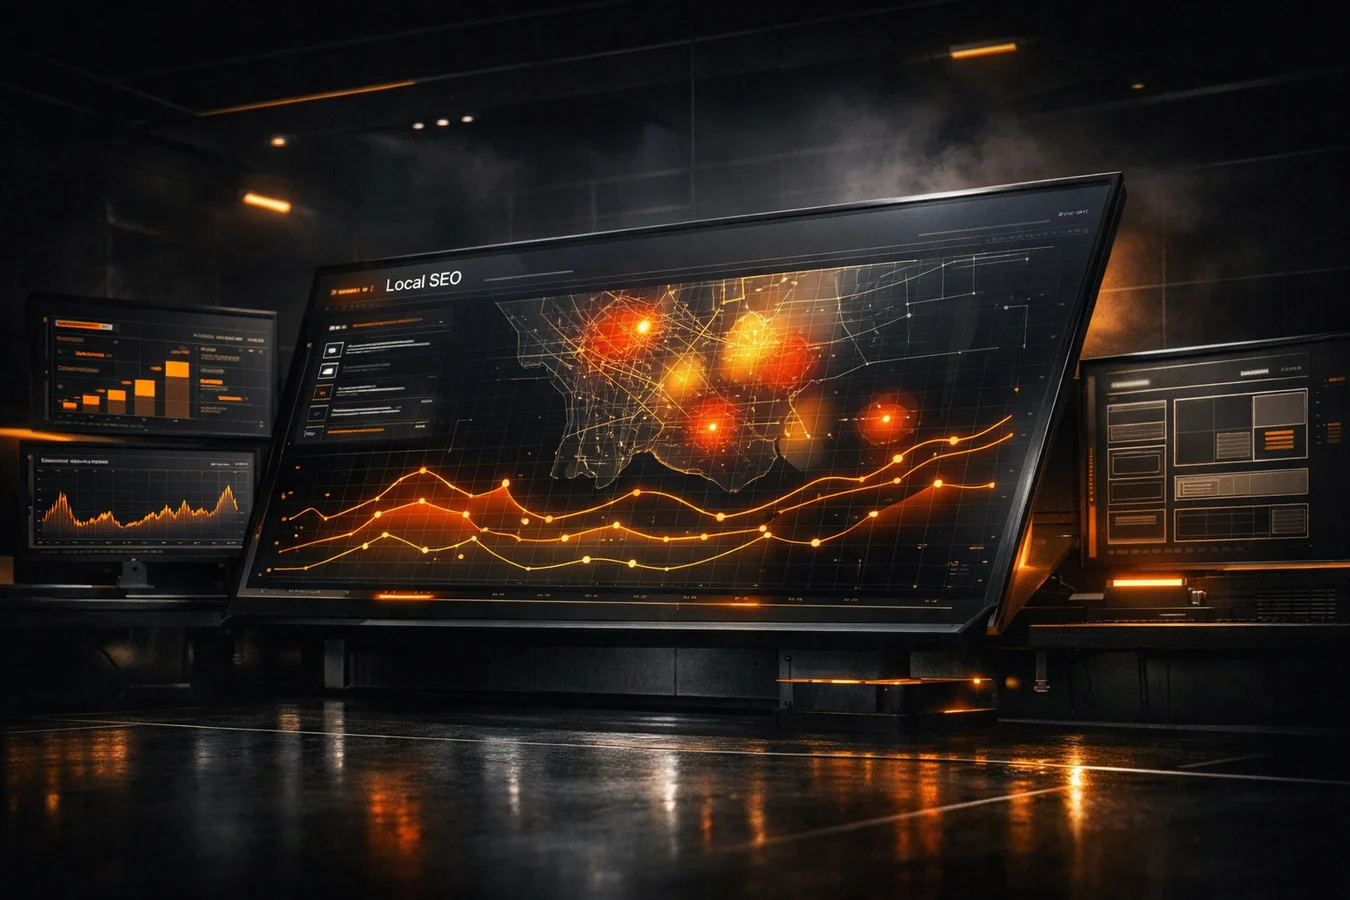
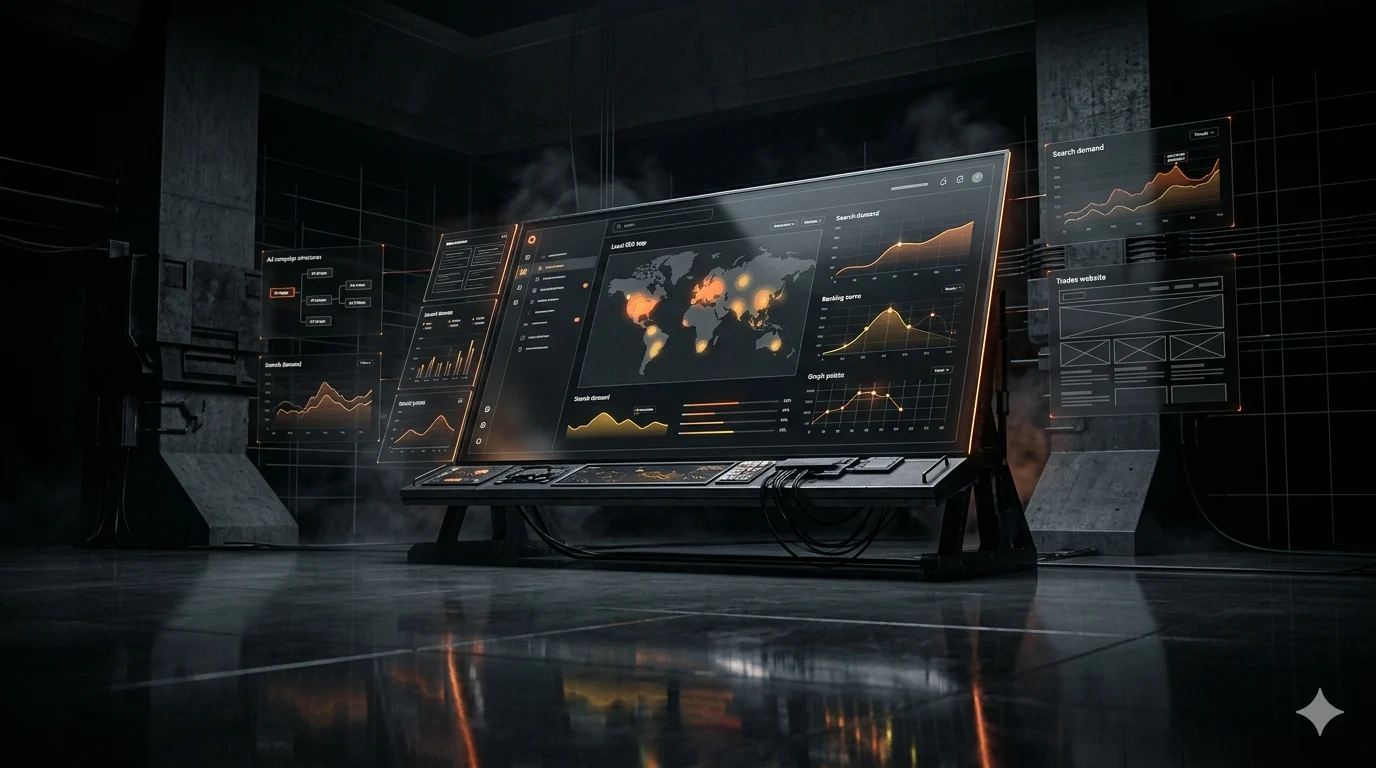
Replace @astrojs/sitemap with local integration; refresh services hero WebP
- Add scripts/astro-sitemap-integration.mjs and public/robots.txt
- Remove @astrojs/sitemap to fix ESM/CJS load errors
- New services hero asset (1376x768 WebP); drop-in source name services-hero-source.png
- Remove tracked hero PNG; update README and optimize-public-rasters.mjs

Made-with: Cursor

diff --git a/README.md b/README.md
@@ -26,15 +26,15 @@ npm run preview
 |------|---------|
 | `README.md` | This file — project intro and layout |
 | `package.json` | Scripts and dependencies (Astro + Tailwind) |
-| `astro.config.mjs` | Static output, Tailwind, sitemap (`@astrojs/sitemap`), production `site` URL |
+| `astro.config.mjs` | Static output, Tailwind, production `site` URL, local sitemap integration |
 | `tailwind.config.mjs` | Ignition design tokens (colors, fonts, 0px radius) |
 | `public/favicon.svg` | Favicon |
+| `public/robots.txt` | Crawl hints + `Sitemap` URL (build also writes `dist/sitemap.xml`) |
 | `public/lsr-logo.png` | Source PNG for wordmark (run `optimize-public-rasters.mjs` → `lsr-logo.webp`) |
 | `public/logo-no-text.png` | Source PNG for mark (same script → `logo-no-text.webp`) |
 | `public/lsr-logo.webp` | Full wordmark — `SiteHeader` from `md` up, default OG image |
 | `public/logo-no-text.webp` | Symbol — `SiteHeader` mobile, `SiteFooter`; schema logo path in `site.ts` |
-| `public/services-hero-image.png` | Source for `/services` hero (script → `services-hero.webp`) |
-| `public/services-hero.webp` | Services page hero image |
+| `public/services-hero.webp` | `/services` hero — build from a source PNG listed in `optimize-public-rasters.mjs`, then delete the PNG if you want to save repo size |
 | `src/env.d.ts` | Astro / Vite TypeScript references |
 | `src/data/site.ts` | Shared URLs, NAP/SEO constants (`SITE_URL`, business name, address, phone, email, `absoluteUrl`, schema helpers), playbook + booking optional fields |
 | `src/lib/jsonLd.ts` | One JSON-LD `@graph` per page (`buildHomepageJsonLd`, `buildInnerPageJsonLd`) — see `docs/SITE-STRUCTURE-AND-SEO-GUIDE.md` |
@@ -43,6 +43,7 @@ npm run preview
 | `scripts/optimize-founder-photo.mjs` | Resize `public/alistair-profile.png` → WebP for `/about` (`node scripts/optimize-founder-photo.mjs`, optional `--delete-source`) |
 | `scripts/optimize-case-study-trucks.mjs` | `dryDuckTruck.jpg` + `coastalCurrentTruck.png` → `dry-duck-truck.webp` / `coastal-current-truck.webp` for home + `/case-studies` |
 | `scripts/optimize-public-rasters.mjs` | Batch: services hero + logos → WebP (`node scripts/optimize-public-rasters.mjs`, optional `--delete-source`) |
+| `scripts/astro-sitemap-integration.mjs` | Post-build `sitemap.xml` in `dist/` (replaces `@astrojs/sitemap` if Node hits ESM/CJS errors) |
 | `src/layouts/BaseLayout.astro` | HTML shell, fonts, global CSS, optional `pageSparks` layer |
 | `src/components/SiteHeader.astro` | Primary navigation |
 | `src/components/SiteFooter.astro` | Footer links |
